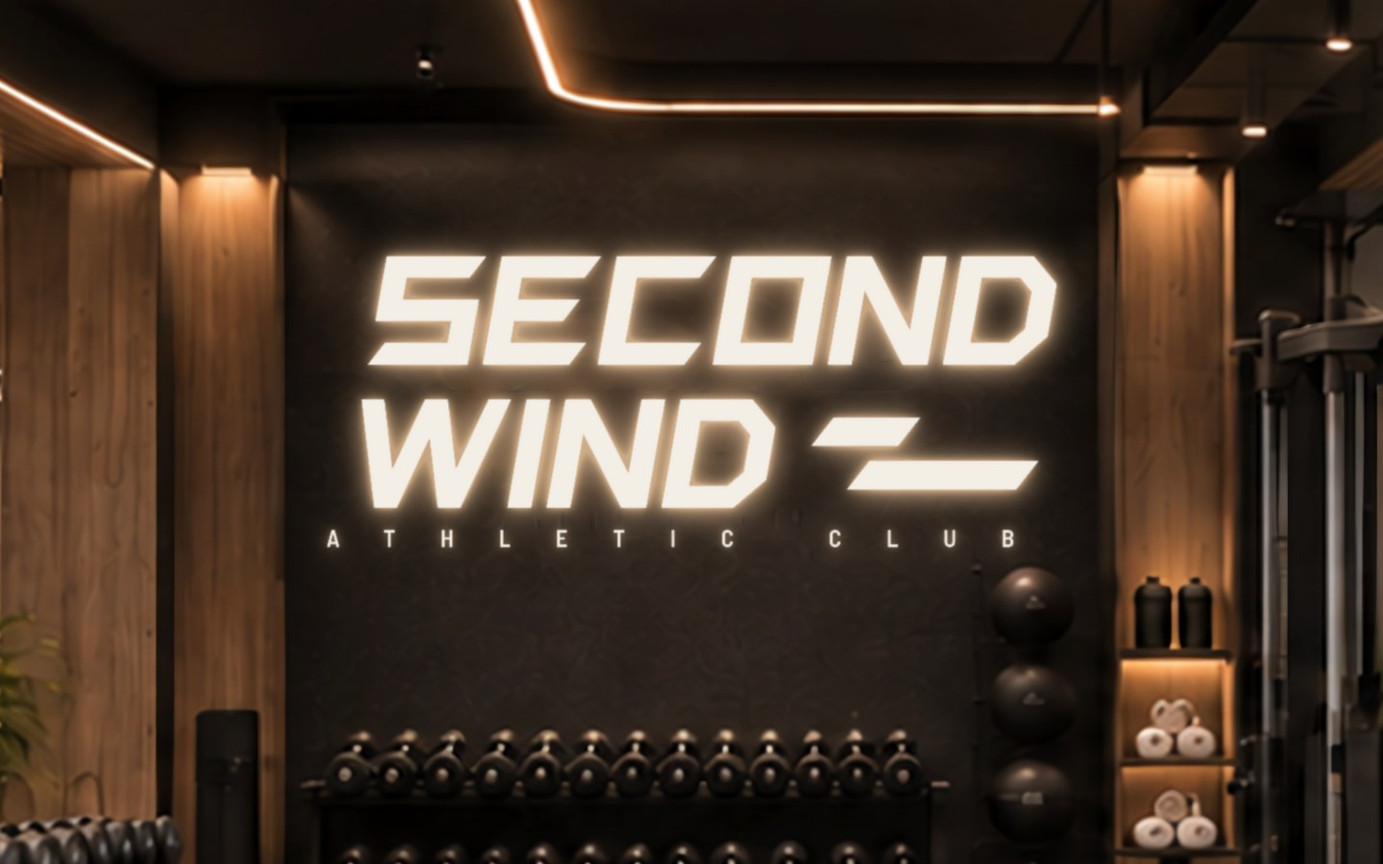
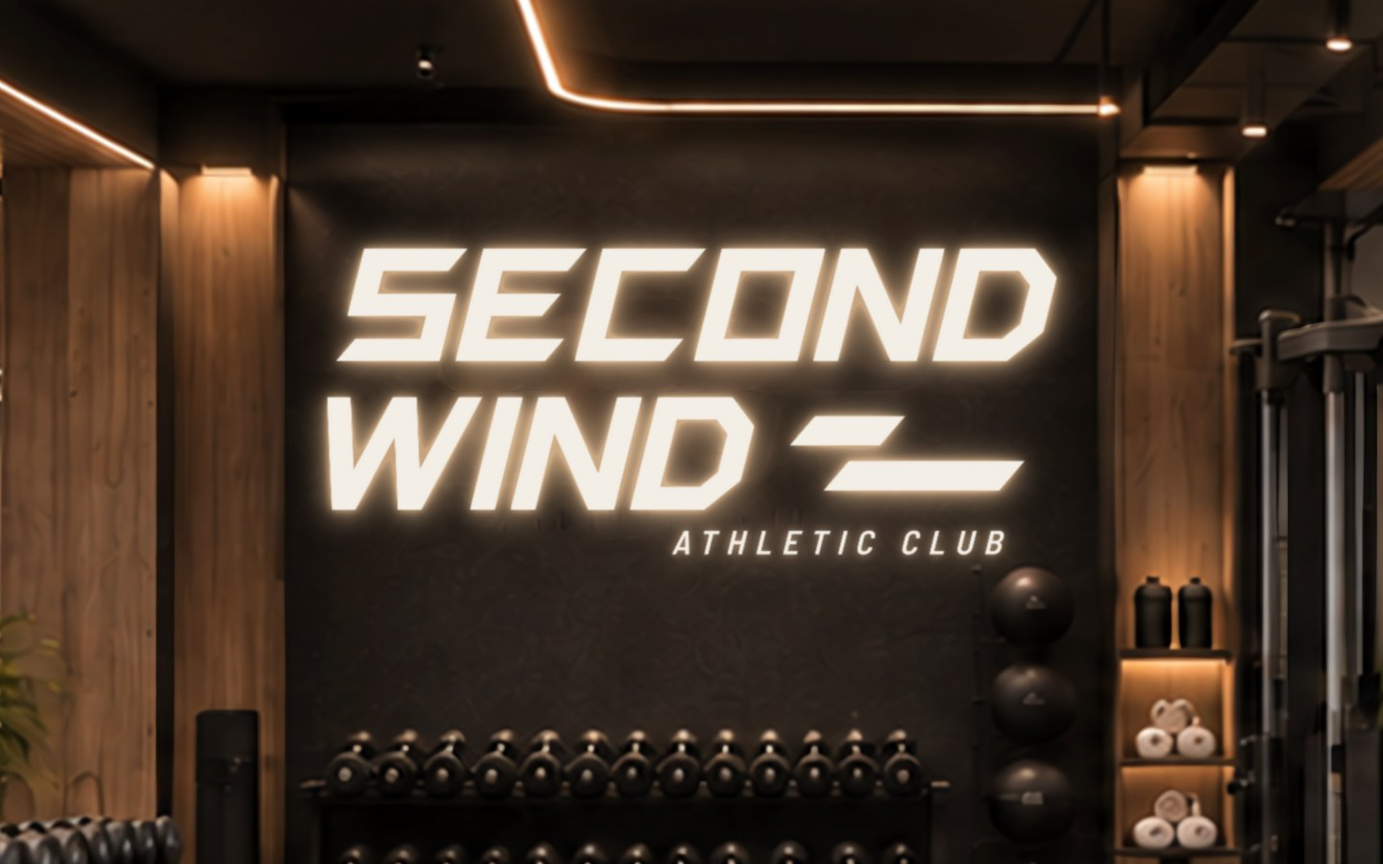
My recommendation at the top of the review (34 club, 37 café, 28 walls); club line moved under WIND, leaning, on all new marks
Claude-Session: https://claude.ai/code/session_01T7nJu2bFotHgzhJym42XGa

Changed region(s): [[0.2188, 0.2489, 0.7812, 0.6533]]

diff --git a/brand/review.html b/brand/review.html
@@ -81,6 +81,26 @@ p { margin:0; max-width:62ch; }
 .rec th { font:500 11px var(--f-label); letter-spacing:.12em; text-transform:uppercase; color:#e7d8c4; }
 .rec .tw { overflow-x:auto; }
 /* Sergio's take: a verdict and a line per logo, remembered in this browser, sent as one email */
+/* my recommendation: one system, built from Sergio's notes */
+.myrec { margin:0 0 56px; display:flex; flex-direction:column; gap:22px; }
+.myrec h2 { font:700 clamp(34px,5vw,56px)/.95 var(--f-cond); text-transform:uppercase; margin:0; letter-spacing:.005em; }
+.myrec .intro { font-size:18px; line-height:1.55; max-width:62ch; margin:0; }
+.rec3 { display:grid; grid-template-columns:1.25fr 1fr 1fr; gap:14px; }
+.rec3 figure { margin:0; background:#1e1c1a; color:#f3efe7; display:flex; flex-direction:column; border-radius:2px; overflow:hidden; }
+.rec3 .mk { height:170px; padding:26px 26px 14px; box-sizing:border-box; }
+.rec3 img { width:100%; aspect-ratio:16/10; object-fit:cover; display:block; }
+.rec3 figcaption { padding:14px 18px 18px; font-size:15px; line-height:1.45; color:#d8d1c4; }
+.rec3 figcaption b { display:block; color:#f3efe7; font:600 13px var(--f-label); letter-spacing:.12em; text-transform:uppercase; margin-bottom:6px; }
+.why { display:grid; grid-template-columns:repeat(3,1fr); gap:14px; }
+.why div { background:var(--card); border:1px solid var(--line); padding:18px 20px; }
+.why p { margin:0; font-size:15.5px; line-height:1.5; }
+.why .label { color:var(--bronze); margin:0 0 6px; }
+.ba { background:var(--card); border:1px solid var(--line); padding:18px 20px 20px; display:grid; grid-template-columns:1fr 1fr; gap:16px; align-items:start; }
+.ba > p { grid-column:1/-1; margin:0; font-size:15.5px; line-height:1.5; }
+.ba figure { margin:0; } .ba img { width:100%; display:block; background:#1e1c1a; }
+.ba figcaption { font:500 11px var(--f-label); letter-spacing:.1em; text-transform:uppercase; color:var(--muted); margin-top:6px; }
+.ask { border-left:3px solid var(--bronze); padding:4px 0 4px 18px; font-size:17px; line-height:1.55; margin:0; }
+@media (max-width:860px) { .rec3, .why, .ba { grid-template-columns:1fr; } }
 .fbk { display:grid; grid-template-columns:1fr 1fr; gap:18px; background:var(--card); border:1px solid var(--line); border-left:3px solid var(--bronze); padding:18px 22px; }
 .fbk .label { color:var(--bronze); margin:0 0 6px; }
 .fbk p { margin:0; font-size:16px; line-height:1.5; }
@@ -111,12 +131,34 @@ a:focus-visible { outline:2px solid var(--bronze); outline-offset:3px; }
 <div class="wrap">
   <header class="head">
     <p class="label">Second Wind Athletic Club · logo review · from Robbie, for Sergio</p>
-    <h1>The shortlist</h1>
+    <h1>Your logo,<br>nearly there</h1>
     <p class="lead">Sergio, this is the shortlist after your feedback on 8 November: the eleven new ones built from your notes and voice notes, and the seven you liked or marked maybe. Under each logo you'll find your feedback and what I did with it. Each one is put through the same test: the full mark, four weights, the icon it becomes when it's small, and how it behaved on the real walls, glass and cups of HUB's design. The same format for each, so the only thing that changes is the logo.</p>
     <p class="label" style="letter-spacing:.1em;color:var(--bronze)">Under each logo, tap Like, Maybe or Not for me and add a line if you have one. The page remembers as you go. When you're done, press Send feedback at the bottom and it opens an email to me with everything filled in. Your earlier answers are kept.</p>
     <p class="label" style="letter-spacing:.1em;color:var(--bronze)">New first: 27 to 37, from your notes. Then the ones you liked: 01, 12, 13, 14, 15, 16 and 18. The nineteen marked not for me are set aside at the bottom of the page.</p>
     <p class="label" style="letter-spacing:.1em">How to read a spread: the hero is the logo at its best. The four weights are the same letters, thicker. The three squares are the icon at profile-picture size on linen, charcoal and walnut.</p>
   </header>
+
+  <section class="myrec" aria-labelledby="h-my">
+    <p class="label" style="color:var(--bronze)">My recommendation</p>
+    <h2 id="h-my">One system, built from your notes</h2>
+    <p class="intro">Sergio, you've been clear about what you like, so rather than ask you to pick again from eighteen, here is what I'd go with. Everything on it comes from your feedback; the only changes I've made myself are refinements you'll see explained below. The full shortlist is underneath if you want to compare.</p>
+    <div class="rec3">
+      <figure><div class="mk" data-rec="R8" data-w="lean"></div><img src="photo/fam/R8-gym.jpg?v=241b757f" alt="Second Wind, a little extended and bold leaning, halo-lit on the gym end wall in HUB's render"><figcaption><b>The club · 34</b>The two strokes, a little extended, bold leaning, with the strokes' cut in the S, E and C. Signage, web, social, merch.</figcaption></figure>
+      <figure><div class="mk" data-rec="R11" data-w="light"></div><img src="photo/fam/R11-cafe.jpg?v=241b757f" alt="First Wind café mark on the café wall in HUB's render"><figcaption><b>The café · 37</b>Your 16, one stroke, centred. First wind in the café, second wind in the gym: count the strokes.</figcaption></figure>
+      <figure><div class="mk" data-rec="R3" data-w="lean"></div><img src="photo/fam/R3-gym.jpg?v=241b757f" alt="Second Wind on two lines, bold leaning, on the gym end wall in HUB's render"><figcaption><b>Walls and merch · 28</b>The same mark stacked, for the end wall, the back of a shirt, a poster. One mark, two shapes.</figcaption></figure>
+    </div>
+    <div class="why">
+      <div><p class="label">Why this works</p><p>It keeps everything you liked: the two strokes, bold and leaning for movement, a little more extended for presence, the cut tying the letters to the icon, and the serif giving the café its own calm voice.</p></div>
+      <div><p class="label">Two rules that keep it premium</p><p>The serif is for the café's name only; menus, prices and signage text stay in the brand's sans. And the lean lives in the logo only; headings and the website stay upright. That discipline is what makes it feel expensive rather than busy.</p></div>
+      <div><p class="label">The café name</p><p>First Wind Café is in as your working name. The one-stroke idea works with any name, so we can settle it together; before it goes on a cup or a sign we'll check nobody nearby already trades under it.</p></div>
+    </div>
+    <div class="ba">
+      <p><b>A refinement I've made:</b> on the earlier versions, ATHLETIC CLUB was stretched to the full width of the name, which spaced the letters so far apart they were hard to read and too thin to light. It now leans with the letters and finishes flush under WIND, so the strokes open the mark and the club line closes it. Same on every new version on this page.</p>
+      <figure><img src="photo/clubline-before.jpg?v=241b757f" alt="Before: ATHLETIC CLUB stretched under the whole name"><figcaption>Before</figcaption></figure>
+      <figure><img src="photo/clubline-after.jpg?v=241b757f" alt="After: ATHLETIC CLUB leaning and flush under WIND"><figcaption>After</figcaption></figure>
+    </div>
+    <p class="ask">If you're happy with this, just reply "go" and I'll build the final brand guidelines, the signage artwork for HUB, and roll it across the website and the walkthrough. If anything isn't right, tell me which and why, and I'll take it from there.</p>
+  </section>
 
   <nav class="toc" id="toc" aria-label="Logos"></nav>
 
@@ -142,9 +184,9 @@ a:focus-visible { outline:2px solid var(--bronze); outline-offset:3px; }
   </section>
 </div>
 
-<script src="brand.js?v=f4bc1d90"></script>
-<script src="fonts.js?v=f4bc1d90"></script>
-<script src="family.js?v=f4bc1d90"></script>
+<script src="brand.js?v=241b757f"></script>
+<script src="fonts.js?v=241b757f"></script>
+<script src="family.js?v=241b757f"></script>
 <script>
 (function () {
   var W = [['light', 'Light'], ['medium', 'Medium'], ['bold', 'Bold'], ['lean', 'Bold, leaning']];
@@ -397,9 +439,9 @@ a:focus-visible { outline:2px solid var(--bronze); outline-offset:3px; }
       '<div class="hero"><div class="mk">' + SWF.svg(id, 'light', '#f3efe7') + '</div></div>' +
       '<div class="grid"><div class="box"><h3>Four weights</h3><div class="weights">' + ws + '</div></div><div class="box"><h3>At icon size</h3><div class="icons">' + ic + '</div><p style="font-size:14px;color:var(--muted)">Profile picture, app icon, cup sleeve, glass, start line.</p></div></div>' +
       '<div class="box" style="gap:16px"><h3>In HUB\'s renders</h3><div class="hub">' +
-        '<figure><img src="photo/fam/' + id + '-cafe.jpg?v=f4bc1d90" alt="' + r.title + ' on the café counter wall, blackened bronze letters above Fuel good days" loading="lazy"><figcaption>Café wall · light · unlit bronze</figcaption></figure>' +
-        '<figure><img src="photo/fam/' + id + '-gym.jpg?v=f4bc1d90" alt="' + r.title + ' lit on the gym end wall" loading="lazy"><figcaption>Gym end wall · bold · halo-lit</figcaption></figure>' +
-        '<figure><img src="photo/fam/' + id + '-shop.jpg?v=f4bc1d90" alt="' + r.title + ' lit on the shopfront fascia" loading="lazy"><figcaption>Shopfront · bold · lit</figcaption></figure></div></div>' +
+        '<figure><img src="photo/fam/' + id + '-cafe.jpg?v=241b757f" alt="' + r.title + ' on the café counter wall, blackened bronze letters above Fuel good days" loading="lazy"><figcaption>Café wall · light · unlit bronze</figcaption></figure>' +
+        '<figure><img src="photo/fam/' + id + '-gym.jpg?v=241b757f" alt="' + r.title + ' lit on the gym end wall" loading="lazy"><figcaption>Gym end wall · bold · halo-lit</figcaption></figure>' +
+        '<figure><img src="photo/fam/' + id + '-shop.jpg?v=241b757f" alt="' + r.title + ' lit on the shopfront fascia" loading="lazy"><figcaption>Shopfront · bold · lit</figcaption></figure></div></div>' +
       '<div class="copy"><div class="c"><h3>The idea</h3><p>' + r.idea + '</p></div><div class="c"><h3>Where it works</h3><ul>' + li(r.works) + '</ul></div><div class="c"><h3>Where it may struggle</h3><ul>' + li(r.struggles) + '</ul></div></div>' +
       fbBlock(id) + '<div class="verdict"><b>' + r.vt + '</b><span class="pill ' + r.verdict + '">' + (r.verdict === 'good' ? 'Passes every test' : r.verdict === 'ok' ? 'Passes some' : 'Fails the small-size test') + '</span><p>' + r.vp + '</p></div>' +
       '<div class="fb" data-id="' + id + '" data-title="' + num + ' · ' + r.title + '"><div class="fbh"><h3>Your take</h3><div class="opts"><button type="button" data-v="like">Like it</button><button type="button" data-v="maybe">Maybe</button><button type="button" data-v="no">Not for me</button></div></div><textarea placeholder="Anything you like or don\'t about this one, in a line or two" aria-label="Comment on ' + r.title + '"></textarea></div>' +
@@ -434,6 +476,7 @@ a:focus-visible { outline:2px solid var(--bronze); outline-offset:3px; }
     var t = summary(), b = this; (navigator.clipboard ? navigator.clipboard.writeText(t) : Promise.reject()).then(function () { b.textContent = 'Copied'; setTimeout(function () { b.textContent = 'Copy my feedback'; }, 1600); }, function () { window.prompt('Copy your feedback:', t); });
   });
   count();
+  Array.prototype.forEach.call(document.querySelectorAll('[data-rec]'), function (el) { el.innerHTML = SWF.svg(el.getAttribute('data-rec'), el.getAttribute('data-w'), '#f3efe7').replace('<svg ', '<svg style="width:100%;height:100%;display:block" '); });
   document.getElementById('spreads').style.display = 'flex'; document.getElementById('spreads').style.flexDirection = 'column'; document.getElementById('spreads').style.gap = '72px';
 })();
 </script>

diff --git a/brand/identity.html b/brand/identity.html
@@ -265,11 +265,11 @@ html { -webkit-text-size-adjust:100%; text-size-adjust:100%; }
       <p class="k">Gym wall · linen letters, bold, warm halo 3000 K · café wall · blackened bronze letters, light, unlit · café front · lit header over the doors · glass · frosted film</p></div>
     <div class="frames">
       <div class="row2">
-        <div class="f" style="aspect-ratio:16/10;background:#1e1c1a"><img class="photo" src="photo/fam/B5-gym.jpg?v=f4bc1d90" alt="The gym end wall with the stacked lockup in the bold weight, halo-lit on the charcoal wall above the kettlebells"><span class="cap" style="color:#fff;opacity:.85">Gym end wall · bold · render by HUB Interiors</span></div>
-        <div class="f" style="aspect-ratio:16/10;background:#1e1c1a"><img class="photo" src="photo/fam/B5-cafe.jpg?v=f4bc1d90" alt="The café counter wall with the stacked mark in blackened bronze above Fuel good days"><span class="cap" style="color:#fff;opacity:.85">Café counter wall · light · blackened bronze</span></div>
+        <div class="f" style="aspect-ratio:16/10;background:#1e1c1a"><img class="photo" src="photo/fam/B5-gym.jpg?v=241b757f" alt="The gym end wall with the stacked lockup in the bold weight, halo-lit on the charcoal wall above the kettlebells"><span class="cap" style="color:#fff;opacity:.85">Gym end wall · bold · render by HUB Interiors</span></div>
+        <div class="f" style="aspect-ratio:16/10;background:#1e1c1a"><img class="photo" src="photo/fam/B5-cafe.jpg?v=241b757f" alt="The café counter wall with the stacked mark in blackened bronze above Fuel good days"><span class="cap" style="color:#fff;opacity:.85">Café counter wall · light · blackened bronze</span></div>
       </div>
-      <div class="f" style="aspect-ratio:1308/770;background:#1e1c1a"><img class="photo" src="photo/rev2-cafe-gym.jpg?v=f4bc1d90" alt="The café booths looking through glass into the gym, with the symbol lit on the far wall"><span class="cap" style="color:#fff;opacity:.85">Café into gym · the symbol on the far wall</span></div>
-      <div class="f" style="aspect-ratio:1761/718;background:#fff"><img class="photo" src="photo/rev2-plan-crop.jpg?v=f4bc1d90" alt="HUB concept plan, revision 2, with brand placements numbered" style="object-fit:contain">
+      <div class="f" style="aspect-ratio:1308/770;background:#1e1c1a"><img class="photo" src="photo/rev2-cafe-gym.jpg?v=241b757f" alt="The café booths looking through glass into the gym, with the symbol lit on the far wall"><span class="cap" style="color:#fff;opacity:.85">Café into gym · the symbol on the far wall</span></div>
+      <div class="f" style="aspect-ratio:1761/718;background:#fff"><img class="photo" src="photo/rev2-plan-crop.jpg?v=241b757f" alt="HUB concept plan, revision 2, with brand placements numbered" style="object-fit:contain">
         <span class="pin" style="left:71.5%;top:54%">1</span>
         <span class="pin" style="left:80%;top:78%">2</span>
         <span class="pin" style="left:67.8%;top:30.6%">3</span>
@@ -401,7 +401,7 @@ html { -webkit-text-size-adjust:100%; text-size-adjust:100%; }
           <div class="tabs"><i class="on">Posts</i><i>About</i><i>Photos</i><i>Reviews</i><i>More</i></div></div>
         <div class="body">
           <div class="card"><b>Intro</b><p>A café and training club in the Perth CBD. Coffee out front, a serious floor behind the glass.</p><p>📍 Suite G.01, 220 St Georges Terrace, Perth</p><p>🕕 Mon–Fri 5.30–20.00 · Sat 7.00–12.00</p><p>🔗 secondwind.club</p></div>
-          <div class="card post"><b>Second Wind Athletic Club</b><p>This is what's going in. Walnut, bronze, a numbered turf track and a lot of serious equipment. Concept by HUB Interiors. Founding memberships open soon.</p><div class="ph"><img class="photo" src="photo/hub-reception.jpg?v=f4bc1d90" alt="" style="object-position:70% 50%"><div class="sl" data-sw="symbol" data-c="bone" style="left:5%;top:5%;width:12%;height:8%"></div></div></div>
+          <div class="card post"><b>Second Wind Athletic Club</b><p>This is what's going in. Walnut, bronze, a numbered turf track and a lot of serious equipment. Concept by HUB Interiors. Founding memberships open soon.</p><div class="ph"><img class="photo" src="photo/hub-reception.jpg?v=241b757f" alt="" style="object-position:70% 50%"><div class="sl" data-sw="symbol" data-c="bone" style="left:5%;top:5%;width:12%;height:8%"></div></div></div>
         </div>
       </div>
       <div class="ig">
@@ -411,13 +411,13 @@ html { -webkit-text-size-adjust:100%; text-size-adjust:100%; }
         <div class="hl"><i><s></s>The build</i><i><s></s>Coaches</i><i><s></s>House rules</i><i><s></s>Founding 50</i></div>
         <div class="grid">
           <div><div class="sl" data-sw="stacked" data-c="ink" style="left:20%;top:16%;width:60%;height:68%"></div></div>
-          <div><img class="photo" src="photo/rack.jpg?v=f4bc1d90" alt="" style="filter:saturate(.7) sepia(.15)"></div>
+          <div><img class="photo" src="photo/rack.jpg?v=241b757f" alt="" style="filter:saturate(.7) sepia(.15)"></div>
           <div style="background:var(--green)"><p class="tile-t cond" style="left:8%;top:14%;width:84%;font-size:14cqw;color:var(--bone)">If you're pushing hard, you belong here.</p><div class="sl" data-sw="symbol" data-c="bone" style="left:8%;top:80%;width:16%;height:10%"></div></div>
           <div style="background:#cfc7b8"><p class="tile-t mono" style="left:8%;top:10%;font-size:4cqw;color:#5d5f57">The build · Week 06</p><p class="tile-t cond" style="left:8%;top:22%;width:84%;font-size:15cqw">Flooring<br>down.</p><div class="sl" data-sw="symbol" data-c="ink" style="left:8%;top:82%;width:16%;height:10%"></div></div>
-          <div><img class="photo" src="photo/tank-worn.jpg?v=f4bc1d90" alt="" style="filter:saturate(.75) sepia(.1)"></div>
+          <div><img class="photo" src="photo/tank-worn.jpg?v=241b757f" alt="" style="filter:saturate(.75) sepia(.1)"></div>
           <div><p class="tile-t mono" style="left:8%;top:10%;font-size:4cqw;color:var(--green)">Founding members</p><p class="tile-t cond" style="left:8%;top:22%;font-size:26cqw;line-height:.9">50</p><p class="tile-t mono" style="left:8%;top:74%;font-size:4cqw;opacity:.7">One run. Numbered.</p></div>
           <div style="background:var(--green)"><p class="tile-t cond" style="left:8%;top:24%;width:84%;font-size:17cqw;color:var(--bone)">Effort,<br>not ability.</p></div>
-          <div><img class="photo" src="photo/perth.jpg?v=f4bc1d90" alt=""></div>
+          <div><img class="photo" src="photo/perth.jpg?v=241b757f" alt=""></div>
           <div style="background:var(--black)"><p class="tile-t cond" style="left:8%;top:10%;font-size:48cqw;line-height:.9;color:var(--bone)">11</p><p class="tile-t mono" style="left:8%;top:76%;font-size:4cqw;color:var(--bone);opacity:.7">The turf track</p></div>
         </div>
       </div>
@@ -431,12 +431,12 @@ html { -webkit-text-size-adjust:100%; text-size-adjust:100%; }
       <p>The symbol embroiders in one direction with no counters, which is why it was built from two strokes and not a letter. Tees at $80 to $100 on heavy cotton, caps embroidered, the Founding 50 numbered and never reprinted.</p></div>
     <div class="frames">
       <div class="row3">
-        <div class="f tall"><img class="photo" src="photo/cap.jpg?v=f4bc1d90" alt=""><div class="sl blend" data-sw="symbol" data-c="ink" style="left:38%;top:46%;width:24%;height:12%"></div><span class="cap" style="color:#000">Cap · symbol · 60 mm</span></div>
-        <div class="f tall"><img class="photo" src="photo/tee-hanger.jpg?v=f4bc1d90" alt=""><div class="sl blend" data-sw="symbol" data-c="ink" style="left:54%;top:32%;width:8%;height:4%"></div><span class="cap" style="color:#000">Tee · left chest · 40 mm</span></div>
-        <div class="f tall"><img class="photo" src="photo/polo.jpg?v=f4bc1d90" alt=""><div class="sl blend" data-sw="primary" data-c="ink" style="left:52%;top:46%;width:14%;height:6%"></div><span class="cap" style="color:#000">Coach polo · primary · 80 mm</span></div>
+        <div class="f tall"><img class="photo" src="photo/cap.jpg?v=241b757f" alt=""><div class="sl blend" data-sw="symbol" data-c="ink" style="left:38%;top:46%;width:24%;height:12%"></div><span class="cap" style="color:#000">Cap · symbol · 60 mm</span></div>
+        <div class="f tall"><img class="photo" src="photo/tee-hanger.jpg?v=241b757f" alt=""><div class="sl blend" data-sw="symbol" data-c="ink" style="left:54%;top:32%;width:8%;height:4%"></div><span class="cap" style="color:#000">Tee · left chest · 40 mm</span></div>
+        <div class="f tall"><img class="photo" src="photo/polo.jpg?v=241b757f" alt=""><div class="sl blend" data-sw="primary" data-c="ink" style="left:52%;top:46%;width:14%;height:6%"></div><span class="cap" style="color:#000">Coach polo · primary · 80 mm</span></div>
       </div>
       <div class="row2">
-        <div class="f tall k"><img class="photo" src="photo/tank-worn.jpg?v=f4bc1d90" alt=""><div class="sl screen" data-sw="symbol" data-c="bone" style="left:44%;top:64%;width:12%;height:6%"></div><span class="cap" style="color:#fff">Muscle tank · symbol · centre</span></div>
+        <div class="f tall k"><img class="photo" src="photo/tank-worn.jpg?v=241b757f" alt=""><div class="sl screen" data-sw="symbol" data-c="bone" style="left:44%;top:64%;width:12%;height:6%"></div><span class="cap" style="color:#fff">Muscle tank · symbol · centre</span></div>
         <div class="f tall g"><span class="n">Founding 50 · back</span><p class="t cond" style="left:0;right:0;top:26%;text-align:center;font-size:12cqw">Founding<br>member</p><div class="bar" style="left:40%;width:20%;top:54%;height:.5cqw;background:var(--copper)"></div><p class="t mono" style="left:0;right:0;top:58%;text-align:center;font-size:2.2cqw">31.9531° S · 115.8533° E</p><div class="sl" data-sw="symbol" data-c="bone" style="left:40%;top:72%;width:20%;height:10%"></div></div>
       </div>
     </div>
@@ -455,7 +455,7 @@ html { -webkit-text-size-adjust:100%; text-size-adjust:100%; }
           <p class="t cond" style="left:5%;top:22%;width:52%;font-size:7.2cqw;line-height:.92">Serious training.<br>Explained.</p>
           <p class="t" style="left:5%;top:58%;width:44%;font-size:2.2cqw;line-height:1.3;color:var(--muted);font-family:var(--f-body)">A café and training club in the Perth CBD. Coffee out front, a serious floor behind the glass. Opening 2027.</p>
           <div class="t" style="left:5%;top:80%;background:var(--green);color:var(--bone);font-family:var(--f-label);font-size:1.7cqw;letter-spacing:.1em;text-transform:uppercase;padding:1.2cqw 2.4cqw">Join the waitlist</div>
-          <img src="photo/rack.jpg?v=f4bc1d90" alt="" style="position:absolute;right:0;top:18%;width:40%;height:82%;object-fit:cover;filter:saturate(.7) sepia(.15)">
+          <img src="photo/rack.jpg?v=241b757f" alt="" style="position:absolute;right:0;top:18%;width:40%;height:82%;object-fit:cover;filter:saturate(.7) sepia(.15)">
           <div class="sl" data-sw="symbol" data-c="bone" style="right:4%;top:24%;width:10%;height:6%"></div>
         </div></div>
       <div class="row3">
@@ -505,7 +505,7 @@ html { -webkit-text-size-adjust:100%; text-size-adjust:100%; }
   </div>
 </div>
 
-<script src="brand.js?v=f4bc1d90"></script>
+<script src="brand.js?v=241b757f"></script>
 <script>
 (function () {
   /* two extra variants for the motion frame: each stroke alone, in the symbol's own box */

diff --git a/brand/identity-alt.html b/brand/identity-alt.html
@@ -254,7 +254,7 @@ html { -webkit-text-size-adjust:100%; text-size-adjust:100%; }
         <div class="f" style="aspect-ratio:16/10;background:#1e1c1a"><img class="photo" data-src="cafe" src="" alt="The café counter wall with the stacked mark in blackened bronze above Fuel good days"><span class="cap" style="color:#fff;opacity:.85">Café counter wall · light · blackened bronze</span></div>
       </div>
       <div class="f" style="aspect-ratio:1308/770;background:#1e1c1a"><img class="photo" data-src="cafegym" src="" alt="The café booths looking through glass into the gym, with the symbol lit on the far wall"><span class="cap" style="color:#fff;opacity:.85">Café into gym · the symbol on the far wall</span></div>
-      <div class="f" style="aspect-ratio:1761/718;background:#fff"><img class="photo" src="photo/rev2-plan-crop.jpg?v=f4bc1d90" alt="HUB concept plan, revision 2, with brand placements numbered" style="object-fit:contain">
+      <div class="f" style="aspect-ratio:1761/718;background:#fff"><img class="photo" src="photo/rev2-plan-crop.jpg?v=241b757f" alt="HUB concept plan, revision 2, with brand placements numbered" style="object-fit:contain">
         <span class="pin" style="left:71.5%;top:54%">1</span>
         <span class="pin" style="left:80%;top:78%">2</span>
         <span class="pin" style="left:67.8%;top:30.6%">3</span>
@@ -386,7 +386,7 @@ html { -webkit-text-size-adjust:100%; text-size-adjust:100%; }
           <div class="tabs"><i class="on">Posts</i><i>About</i><i>Photos</i><i>Reviews</i><i>More</i></div></div>
         <div class="body">
           <div class="card"><b>Intro</b><p>A café and training club in the Perth CBD. Coffee out front, a serious floor behind the glass.</p><p>📍 Suite G.01, 220 St Georges Terrace, Perth</p><p>🕕 Mon–Fri 5.30–20.00 · Sat 7.00–12.00</p><p>🔗 secondwind.club</p></div>
-          <div class="card post"><b>Second Wind Athletic Club</b><p>This is what's going in. Walnut, bronze, a numbered turf track and a lot of serious equipment. Concept by HUB Interiors. Founding memberships open soon.</p><div class="ph"><img class="photo" src="photo/hub-reception.jpg?v=f4bc1d90" alt="" style="object-position:70% 50%"><div class="sl" data-sw="symbol" data-c="bone" style="left:5%;top:5%;width:12%;height:8%"></div></div></div>
+          <div class="card post"><b>Second Wind Athletic Club</b><p>This is what's going in. Walnut, bronze, a numbered turf track and a lot of serious equipment. Concept by HUB Interiors. Founding memberships open soon.</p><div class="ph"><img class="photo" src="photo/hub-reception.jpg?v=241b757f" alt="" style="object-position:70% 50%"><div class="sl" data-sw="symbol" data-c="bone" style="left:5%;top:5%;width:12%;height:8%"></div></div></div>
         </div>
       </div>
       <div class="ig">
@@ -396,13 +396,13 @@ html { -webkit-text-size-adjust:100%; text-size-adjust:100%; }
         <div class="hl"><i><s></s>The build</i><i><s></s>Coaches</i><i><s></s>House rules</i><i><s></s>Founding 50</i></div>
         <div class="grid">
           <div><div class="sl" data-sw="stacked" data-c="ink" style="left:20%;top:16%;width:60%;height:68%"></div></div>
-          <div><img class="photo" src="photo/rack.jpg?v=f4bc1d90" alt="" style="filter:saturate(.7) sepia(.15)"></div>
+          <div><img class="photo" src="photo/rack.jpg?v=241b757f" alt="" style="filter:saturate(.7) sepia(.15)"></div>
           <div style="background:var(--green)"><p class="tile-t cond" style="left:8%;top:14%;width:84%;font-size:14cqw;color:var(--bone)">If you're pushing hard, you belong here.</p><div class="sl" data-sw="symbol" data-c="bone" style="left:8%;top:80%;width:16%;height:10%"></div></div>
           <div style="background:#cfc7b8"><p class="tile-t mono" style="left:8%;top:10%;font-size:4cqw;color:#5d5f57">The build · Week 06</p><p class="tile-t cond" style="left:8%;top:22%;width:84%;font-size:15cqw">Flooring<br>down.</p><div class="sl" data-sw="symbol" data-c="ink" style="left:8%;top:82%;width:16%;height:10%"></div></div>
-          <div><img class="photo" src="photo/tank-worn.jpg?v=f4bc1d90" alt="" style="filter:saturate(.75) sepia(.1)"></div>
+          <div><img class="photo" src="photo/tank-worn.jpg?v=241b757f" alt="" style="filter:saturate(.75) sepia(.1)"></div>
           <div><p class="tile-t mono" style="left:8%;top:10%;font-size:4cqw;color:var(--green)">Founding members</p><p class="tile-t cond" style="left:8%;top:22%;font-size:26cqw;line-height:.9">50</p><p class="tile-t mono" style="left:8%;top:74%;font-size:4cqw;opacity:.7">One run. Numbered.</p></div>
           <div style="background:var(--green)"><p class="tile-t cond" style="left:8%;top:24%;width:84%;font-size:17cqw;color:var(--bone)">Effort,<br>not ability.</p></div>
-          <div><img class="photo" src="photo/perth.jpg?v=f4bc1d90" alt=""></div>
+          <div><img class="photo" src="photo/perth.jpg?v=241b757f" alt=""></div>
           <div style="background:var(--black)"><p class="tile-t cond" style="left:8%;top:10%;font-size:48cqw;line-height:.9;color:var(--bone)">11</p><p class="tile-t mono" style="left:8%;top:76%;font-size:4cqw;color:var(--bone);opacity:.7">The turf track</p></div>
         </div>
       </div>
@@ -416,12 +416,12 @@ html { -webkit-text-size-adjust:100%; text-size-adjust:100%; }
       <p><span data-t="embroider"></span> Tees at $80 to $100 on heavy cotton, caps embroidered, the Founding 50 numbered and never reprinted.</p></div>
     <div class="frames">
       <div class="row3">
-        <div class="f tall"><img class="photo" src="photo/cap.jpg?v=f4bc1d90" alt=""><div class="sl blend" data-sw="symbol" data-c="ink" style="left:38%;top:46%;width:24%;height:12%"></div><span class="cap" style="color:#000">Cap · symbol · 60 mm</span></div>
-        <div class="f tall"><img class="photo" src="photo/tee-hanger.jpg?v=f4bc1d90" alt=""><div class="sl blend" data-sw="symbol" data-c="ink" style="left:54%;top:32%;width:8%;height:4%"></div><span class="cap" style="color:#000">Tee · left chest · 40 mm</span></div>
-        <div class="f tall"><img class="photo" src="photo/polo.jpg?v=f4bc1d90" alt=""><div class="sl blend" data-sw="primary" data-c="ink" style="left:52%;top:46%;width:14%;height:6%"></div><span class="cap" style="color:#000">Coach polo · primary · 80 mm</span></div>
+        <div class="f tall"><img class="photo" src="photo/cap.jpg?v=241b757f" alt=""><div class="sl blend" data-sw="symbol" data-c="ink" style="left:38%;top:46%;width:24%;height:12%"></div><span class="cap" style="color:#000">Cap · symbol · 60 mm</span></div>
+        <div class="f tall"><img class="photo" src="photo/tee-hanger.jpg?v=241b757f" alt=""><div class="sl blend" data-sw="symbol" data-c="ink" style="left:54%;top:32%;width:8%;height:4%"></div><span class="cap" style="color:#000">Tee · left chest · 40 mm</span></div>
+        <div class="f tall"><img class="photo" src="photo/polo.jpg?v=241b757f" alt=""><div class="sl blend" data-sw="primary" data-c="ink" style="left:52%;top:46%;width:14%;height:6%"></div><span class="cap" style="color:#000">Coach polo · primary · 80 mm</span></div>
       </div>
       <div class="row2">
-        <div class="f tall k"><img class="photo" src="photo/tank-worn.jpg?v=f4bc1d90" alt=""><div class="sl screen" data-sw="symbol" data-c="bone" style="left:44%;top:64%;width:12%;height:6%"></div><span class="cap" style="color:#fff">Muscle tank · symbol · centre</span></div>
+        <div class="f tall k"><img class="photo" src="photo/tank-worn.jpg?v=241b757f" alt=""><div class="sl screen" data-sw="symbol" data-c="bone" style="left:44%;top:64%;width:12%;height:6%"></div><span class="cap" style="color:#fff">Muscle tank · symbol · centre</span></div>
         <div class="f tall g"><span class="n">Founding 50 · back</span><p class="t cond" style="left:0;right:0;top:26%;text-align:center;font-size:12cqw">Founding<br>member</p><div class="bar" style="left:40%;width:20%;top:54%;height:.5cqw;background:var(--copper)"></div><p class="t mono" style="left:0;right:0;top:58%;text-align:center;font-size:2.2cqw">31.9531° S · 115.8533° E</p><div class="sl" data-sw="symbol" data-c="bone" style="left:40%;top:72%;width:20%;height:10%"></div></div>
       </div>
     </div>
@@ -440,7 +440,7 @@ html { -webkit-text-size-adjust:100%; text-size-adjust:100%; }
           <p class="t cond" style="left:5%;top:22%;width:52%;font-size:7.2cqw;line-height:.92">Serious training.<br>Explained.</p>
           <p class="t" style="left:5%;top:58%;width:44%;font-size:2.2cqw;line-height:1.3;color:var(--muted);font-family:var(--f-body)">A café and training club in the Perth CBD. Coffee out front, a serious floor behind the glass. Opening 2027.</p>
           <div class="t" style="left:5%;top:80%;background:var(--green);color:var(--bone);font-family:var(--f-label);font-size:1.7cqw;letter-spacing:.1em;text-transform:uppercase;padding:1.2cqw 2.4cqw">Join the waitlist</div>
-          <img src="photo/rack.jpg?v=f4bc1d90" alt="" style="position:absolute;right:0;top:18%;width:40%;height:82%;object-fit:cover;filter:saturate(.7) sepia(.15)">
+          <img src="photo/rack.jpg?v=241b757f" alt="" style="position:absolute;right:0;top:18%;width:40%;height:82%;object-fit:cover;filter:saturate(.7) sepia(.15)">
           <div class="sl" data-sw="symbol" data-c="bone" style="right:4%;top:24%;width:10%;height:6%"></div>
         </div></div>
       <div class="row3">
@@ -474,9 +474,9 @@ html { -webkit-text-size-adjust:100%; text-size-adjust:100%; }
   </div>
 </div>
 
-<script src="brand.js?v=f4bc1d90"></script>
-<script src="fonts.js?v=f4bc1d90"></script>
-<script src="family.js?v=f4bc1d90"></script>
+<script src="brand.js?v=241b757f"></script>
+<script src="fonts.js?v=241b757f"></script>
+<script src="family.js?v=241b757f"></script>
 <script>
 (function () {
   var L = {

diff --git a/brand/guidelines.html b/brand/guidelines.html
@@ -185,7 +185,7 @@ td.mono { font-family:var(--f-label); font-size:13px; }
       <div class="f sq"><span class="n">Don't recolour</span><div class="slot" data-sw="primary" data-c="#3f7a5a" style="left:12%;top:32%;width:76%;height:36%"></div><div class="cross"></div></div>
       <div class="f sq"><span class="n">Don't rotate</span><div class="slot" data-sw="primary" data-c="ink" style="left:12%;top:32%;width:76%;height:36%;transform:rotate(-14deg)"></div><div class="cross"></div></div>
       <div class="f sq"><span class="n">No effects</span><div class="slot" data-sw="primary" data-c="ink" style="left:12%;top:32%;width:76%;height:36%;filter:drop-shadow(1cqw 1cqw 0 #a2723f)"></div><div class="cross"></div></div>
-      <div class="f sq"><span class="n">Not on busy photos</span><img class="photo" src="photo/floor.jpg?v=f4bc1d90" alt=""><div class="slot" data-sw="primary" data-c="bone" style="left:12%;top:32%;width:76%;height:36%"></div><div class="cross"></div></div>
+      <div class="f sq"><span class="n">Not on busy photos</span><img class="photo" src="photo/floor.jpg?v=241b757f" alt=""><div class="slot" data-sw="primary" data-c="bone" style="left:12%;top:32%;width:76%;height:36%"></div><div class="cross"></div></div>
       <div class="f sq g"><span class="n">Don't add a tagline</span><div class="slot" data-sw="primary" data-c="bone" style="left:12%;top:26%;width:76%;height:36%"></div><p class="t cond" style="left:0;right:0;top:66%;text-align:center;font-size:5cqw">Unleash your potential</p><div class="cross"></div></div>
     </div>
   </section>
@@ -196,8 +196,8 @@ td.mono { font-family:var(--f-label); font-size:13px; }
     <p>HUB Interiors' concept, revision 2, sets where the brand appears. You arrive through the building's foyer; the café is a glass box on that foyer and the gym sits behind it, so the café front is the brand's first appearance, then the counter wall, the glazing between café and gym, the gym's end wall and the turf track. The full name goes in three places only; the symbol does the rest.</p>
     <p><b>Weights.</b> Light in the café and on anything held or read up close (counter wall, cups, menus, print, the website). Bold in the gym and anywhere the mark must carry distance (gym walls, the café front header, merch, social). One logo, two weights, never mixed on one surface. <span class="draft">Split to be confirmed by Sergio</span></p>
     <div class="two">
-      <div class="f" style="background:#1e1c1a"><img class="photo" src="photo/fam/B5-cafe.jpg?v=f4bc1d90" alt="The café counter wall, the stacked mark in blackened bronze above Fuel good days"><span class="cap" style="color:#fff">Café counter wall · light · render by HUB Interiors</span></div>
-      <div class="f" style="background:#1e1c1a"><img class="photo" src="photo/fam/B5-gym.jpg?v=f4bc1d90" alt="The gym end wall with the stacked lockup in bold, halo-lit"><span class="cap" style="color:#fff">Gym end wall · bold</span></div>
+      <div class="f" style="background:#1e1c1a"><img class="photo" src="photo/fam/B5-cafe.jpg?v=241b757f" alt="The café counter wall, the stacked mark in blackened bronze above Fuel good days"><span class="cap" style="color:#fff">Café counter wall · light · render by HUB Interiors</span></div>
+      <div class="f" style="background:#1e1c1a"><img class="photo" src="photo/fam/B5-gym.jpg?v=241b757f" alt="The gym end wall with the stacked lockup in bold, halo-lit"><span class="cap" style="color:#fff">Gym end wall · bold</span></div>
     </div>
     <table>
       <tr><th>Place</th><th>Mark</th><th>Specification</th></tr>
@@ -322,9 +322,9 @@ td.mono { font-family:var(--f-label); font-size:13px; }
     </div>
     <h3>Treatment</h3>
     <div class="three">
-      <div class="f sq"><img class="photo" src="photo/rack.jpg?v=f4bc1d90" alt="" style="filter:saturate(.7) sepia(.12) contrast(.98)"><span class="cap" style="color:#fff">Warm, desaturated 30%</span></div>
-      <div class="f sq"><img class="photo" src="photo/tank-worn.jpg?v=f4bc1d90" alt="" style="filter:saturate(.75) sepia(.1)"><span class="cap" style="color:#fff">People: straight, calm</span></div>
-      <div class="f sq"><img class="photo" src="photo/polo.jpg?v=f4bc1d90" alt="" style="filter:saturate(.8) sepia(.08)"><span class="cap" style="color:#fff">Coaches: in the kit, outdoors is fine</span></div>
+      <div class="f sq"><img class="photo" src="photo/rack.jpg?v=241b757f" alt="" style="filter:saturate(.7) sepia(.12) contrast(.98)"><span class="cap" style="color:#fff">Warm, desaturated 30%</span></div>
+      <div class="f sq"><img class="photo" src="photo/tank-worn.jpg?v=241b757f" alt="" style="filter:saturate(.75) sepia(.1)"><span class="cap" style="color:#fff">People: straight, calm</span></div>
+      <div class="f sq"><img class="photo" src="photo/polo.jpg?v=241b757f" alt="" style="filter:saturate(.8) sepia(.08)"><span class="cap" style="color:#fff">Coaches: in the kit, outdoors is fine</span></div>
     </div>
     <h3>The launch shot list <span class="draft">draft</span></h3>
     <table>
@@ -415,6 +415,6 @@ td.mono { font-family:var(--f-label); font-size:13px; }
   </section>
 </div>
 
-<script src="brand.js?v=f4bc1d90"></script>
+<script src="brand.js?v=241b757f"></script>
 <script>SW.fill();</script>
 </html>

diff --git a/brand/options.html b/brand/options.html
@@ -100,10 +100,10 @@ a:focus-visible { outline:2px solid var(--bronze); outline-offset:3px; }
     <div class="sh"><p class="label">The gym end wall · HUB Interiors render</p><h2 id="h-gym">Where the weight matters</h2>
       <p>The gym is dark and heavy: racks, plates, black walls. This is the test that separates the four.</p></div>
     <div class="g2">
-      <figure><img src="photo/optc-A-gym.jpg?v=f4bc1d90" alt="Gym end wall with the light wordmark lit on the charcoal wall"><figcaption><b>A</b> Light</figcaption></figure>
-      <figure><img src="photo/optc-B-gym.jpg?v=f4bc1d90" alt="Gym end wall with the medium wordmark"><figcaption><b>B</b> Medium</figcaption></figure>
-      <figure><img src="photo/optc-C-gym.jpg?v=f4bc1d90" alt="Gym end wall with the bold wordmark"><figcaption><b>C</b> Bold</figcaption></figure>
-      <figure><img src="photo/optc-D-gym.jpg?v=f4bc1d90" alt="Gym end wall with the bold leaning wordmark"><figcaption><b>D</b> Bold, leaning</figcaption></figure>
+      <figure><img src="photo/optc-A-gym.jpg?v=241b757f" alt="Gym end wall with the light wordmark lit on the charcoal wall"><figcaption><b>A</b> Light</figcaption></figure>
+      <figure><img src="photo/optc-B-gym.jpg?v=241b757f" alt="Gym end wall with the medium wordmark"><figcaption><b>B</b> Medium</figcaption></figure>
+      <figure><img src="photo/optc-C-gym.jpg?v=241b757f" alt="Gym end wall with the bold wordmark"><figcaption><b>C</b> Bold</figcaption></figure>
+      <figure><img src="photo/optc-D-gym.jpg?v=241b757f" alt="Gym end wall with the bold leaning wordmark"><figcaption><b>D</b> Bold, leaning</figcaption></figure>
     </div>
   </section>
 
@@ -111,8 +111,8 @@ a:focus-visible { outline:2px solid var(--bronze); outline-offset:3px; }
     <div class="sh"><p class="label">My favourite</p><h2 id="h-rec">Light in the café. Bold in the gym.</h2>
       <p>One logo, two weights, each where it works best. Light reads as calm and considered up close. Bold holds its own from across a room or a street.</p></div>
     <div class="pair">
-      <figure><img src="photo/optc-A-cafe.jpg?v=f4bc1d90" alt="Café counter wall with the light wordmark in blackened bronze above Fuel good days"><figcaption><b>A</b> Light · the café</figcaption><p class="use">Café wall, cups, menus, website, print.</p></figure>
-      <figure><img src="photo/optc-C-gym.jpg?v=f4bc1d90" alt="Gym end wall with the bold wordmark lit"><figcaption><b>C</b> Bold · the gym</figcaption><p class="use">Gym wall, shopfront, merch, social.</p></figure>
+      <figure><img src="photo/optc-A-cafe.jpg?v=241b757f" alt="Café counter wall with the light wordmark in blackened bronze above Fuel good days"><figcaption><b>A</b> Light · the café</figcaption><p class="use">Café wall, cups, menus, website, print.</p></figure>
+      <figure><img src="photo/optc-C-gym.jpg?v=241b757f" alt="Gym end wall with the bold wordmark lit"><figcaption><b>C</b> Bold · the gym</figcaption><p class="use">Gym wall, shopfront, merch, social.</p></figure>
     </div>
   </section>
 
@@ -130,7 +130,7 @@ a:focus-visible { outline:2px solid var(--bronze); outline-offset:3px; }
   </section>
 </div>
 
-<script src="brand.js?v=f4bc1d90"></script>
+<script src="brand.js?v=241b757f"></script>
 <script>
 (function () {
   var OPT = { A: {}, B: { weight: 'medium' }, C: { weight: 'bold' }, D: { weight: 'bold', lean: true } };

diff --git a/brand/family.js b/brand/family.js
@@ -63,9 +63,11 @@
   function lockR4(w, k, gap, tagSize, forceLean) {
     var sy = (H - SW.SYM_H) / 2 + 2, wx = SW.SYM_W + gap, L = typeof forceLean === 'number' ? forceLean : (k === 'lean' || forceLean) ? (k === 'lean' ? 14 : 10) : 0;
     var word = '<g transform="translate(' + wx + ' 0)">' + w.s + '</g>', icon = '<g transform="translate(0 ' + sy + ')">' + sym() + '</g>';
-    var inner = icon + word, tl = tag('ATHLETIC CLUB', wx, 134, w.w, tagSize);
+    var LS = 8, tl = '<text x="' + (wx + w.w + LS) + '" y="138" font-size="26" letter-spacing="' + LS + '" text-anchor="end" ' + TAGF + ' fill="currentColor">ATHLETIC CLUB</text>';
+    var inner = icon + word + tl;
     if (L) inner = lean(inner, L);
-    return { vb: '-10 -10 ' + (wx + w.w + 30 + (L ? Math.ceil(Math.tan(L * Math.PI / 180) * H) + 8 : 0)) + ' 160', inner: inner + tl };
+    tl = '';
+    return { vb: (L ? '-18' : '-10') + ' -10 ' + (wx + w.w + 30 + (L ? Math.ceil(Math.tan(L * Math.PI / 180) * H) + 16 : 0)) + ' 160', inner: inner + tl };
   }
   function cafeR4(name, p, k) {
     var fw = k === 'light' ? 400 : k === 'medium' ? 500 : 700, it = k === 'lean' ? ' font-style="italic"' : '';
@@ -208,10 +210,11 @@
     R3: function (p, k) {
       var pp = [p[0] + 2, p[1] + 2, 92, 14], a = cword('SECOND', pp), b = cword('WIND', pp), sw = SW.SYM_W;
       var ix = b.w + 36, iy = 132 + (H - SW.SYM_H) / 2;
-      var inner = a.s + '<g transform="translate(0 132)">' + b.s + '</g><g transform="translate(' + ix + ' ' + iy + ')">' + sym() + '</g>';
-      var W = Math.max(a.w, ix + sw);
+      var W = Math.max(a.w, ix + sw), LS = 9;
+      var inner = a.s + '<g transform="translate(0 132)">' + b.s + '</g><g transform="translate(' + ix + ' ' + iy + ')">' + sym() + '</g>' +
+        '<text x="' + (W + LS) + '" y="272" font-size="30" letter-spacing="' + LS + '" text-anchor="end" ' + TAGF + ' fill="currentColor">ATHLETIC CLUB</text>';
       inner = lean(inner, k === 'lean' ? 14 : 10);
-      return { vb: '-44 -14 ' + (W + 90) + ' 300', inner: inner + tag('ATHLETIC CLUB', -38, 268, W, 22) };
+      return { vb: '-56 -14 ' + (W + 120) + ' 304', inner: inner };
     },
     R4: function (p, k) { return lockR4(cword('SECOND WIND', [p[0], p[1], p[2], 22]), k, 48, 22); },
     R5: function (p, k) { return cafeR4('FIRST WIND', p, k); },

diff --git a/brand/hubpack.html b/brand/hubpack.html
@@ -94,7 +94,7 @@ a:focus-visible { outline:2px solid var(--bronze); outline-offset:3px; }
   </section>
 </div>
 
-<script src="brand.js?v=f4bc1d90"></script>
+<script src="brand.js?v=241b757f"></script>
 <script>
 (function () {
   document.querySelector('.brand').innerHTML = SW.svg('primary', 'currentColor', { attrs: ' aria-hidden="true"' });
@@ -115,9 +115,9 @@ a:focus-visible { outline:2px solid var(--bronze); outline-offset:3px; }
     var n = ('0' + pg[0]).slice(-2);
     html += '<section class="page" aria-labelledby="p' + n + '"><div class="ph"><div><p class="n">Page ' + pg[0] + ' of 10</p><h2 id="p' + n + '">' + pg[1] + '</h2></div>' + (pg[2] ? '<p class="what">' + pg[2] + '</p>' : '<p class="what">No branding on this page. Shown as HUB sent it.</p>') + '</div>';
     if (pg[2]) {
-      html += '<div class="cmp" style="--x:50%"><img class="after" src="hub/after-' + n + '.jpg?v=f4bc1d90" alt="Page ' + pg[0] + ' with the Second Wind mark" loading="lazy"><img class="before" src="hub/before-' + n + '.jpg?v=f4bc1d90" alt="" loading="lazy"><span class="tag l">HUB original</span><span class="tag r">With our mark</span><input type="range" min="0" max="100" value="50" aria-label="Compare before and after on page ' + pg[0] + '"><span class="bar"></span><span class="knob" aria-hidden="true">&#8596;</span></div>';
+      html += '<div class="cmp" style="--x:50%"><img class="after" src="hub/after-' + n + '.jpg?v=241b757f" alt="Page ' + pg[0] + ' with the Second Wind mark" loading="lazy"><img class="before" src="hub/before-' + n + '.jpg?v=241b757f" alt="" loading="lazy"><span class="tag l">HUB original</span><span class="tag r">With our mark</span><input type="range" min="0" max="100" value="50" aria-label="Compare before and after on page ' + pg[0] + '"><span class="bar"></span><span class="knob" aria-hidden="true">&#8596;</span></div>';
     } else {
-      html += '<div class="still"><img src="hub/after-' + n + '.jpg?v=f4bc1d90" alt="Page ' + pg[0] + ', ' + pg[1] + '" loading="lazy"></div>';
+      html += '<div class="still"><img src="hub/after-' + n + '.jpg?v=241b757f" alt="Page ' + pg[0] + ', ' + pg[1] + '" loading="lazy"></div>';
     }
     html += '</section>';
   });

diff --git a/brand/walkthrough.html b/brand/walkthrough.html
@@ -70,9 +70,9 @@ html, body { margin:0; height:100%; background:#141210; color:var(--linen); font
 <div class="ui pad"><button id="fwd" aria-label="Walk forward">▲</button><button id="back" aria-label="Walk back">▼</button></div>
 <div class="ui spots" id="spots"></div>
 
-<script src="brand.js?v=f4bc1d90"></script>
-<script src="fonts.js?v=f4bc1d90"></script>
-<script src="family.js?v=f4bc1d90"></script>
+<script src="brand.js?v=241b757f"></script>
+<script src="fonts.js?v=241b757f"></script>
+<script src="family.js?v=241b757f"></script>
 <script type="importmap">
 { "imports": { "three": "./vendor/three/three.module.js", "three/addons/": "./vendor/three/addons/" } }
 </script>
